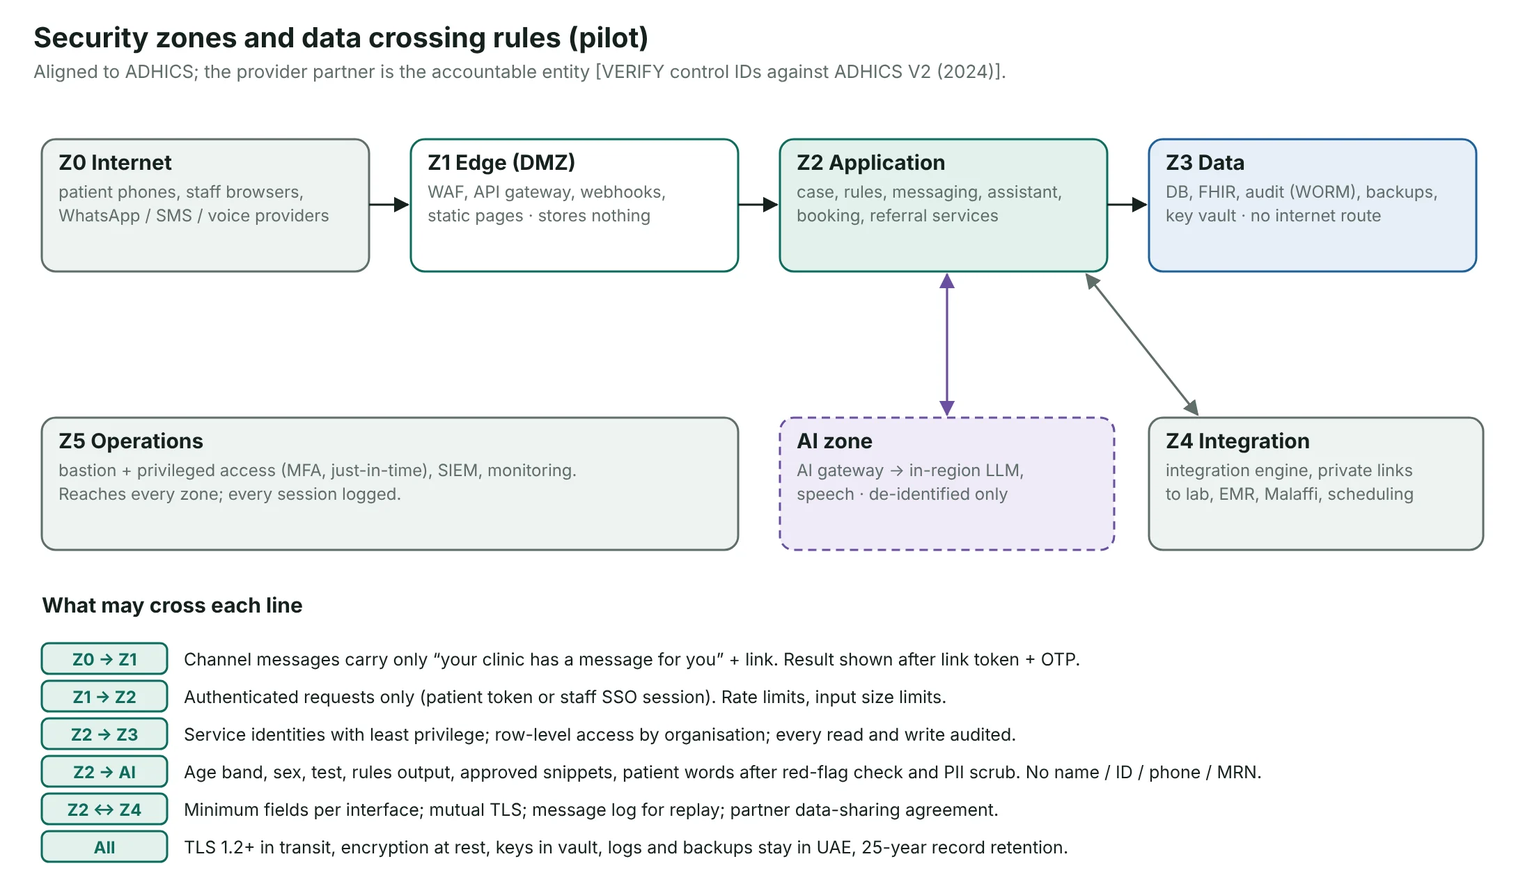
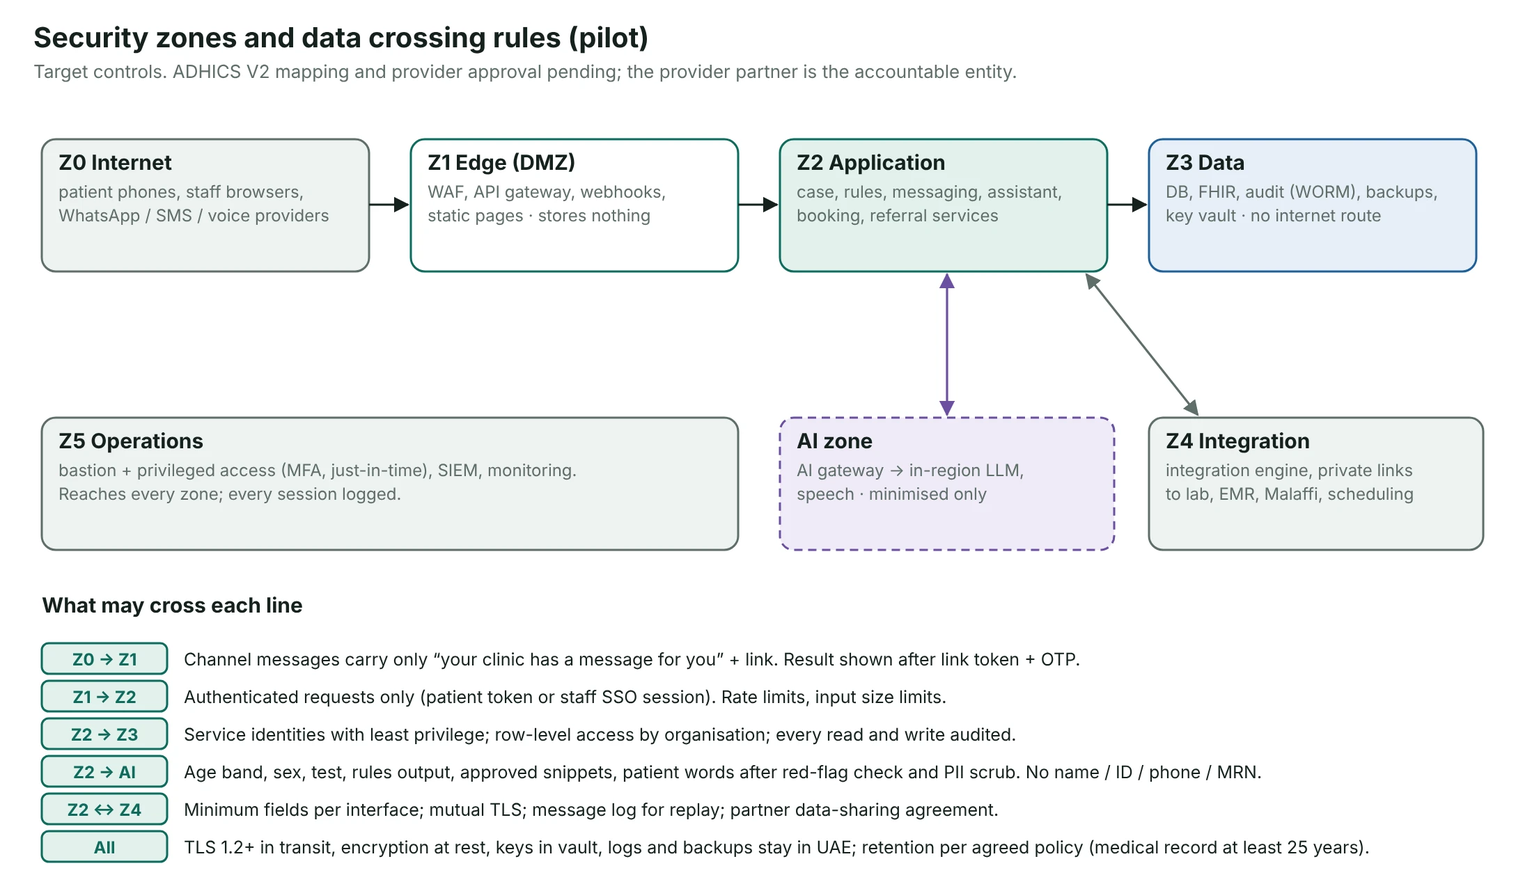
Architecture audit: staged pilot (Start/v1/Scale), daily-file contract, closure before record link, urgent path in FIT pilot, UAE hosting as target design, 25-year retention, AI modes and provider requirements, FHIR examples, full-size links, scroll hint, lightbox focus trap; legal non-affiliation l
Claude-Session: https://claude.ai/code/session_01GspiD7aAGs5PZSb9oyc1TY

Changed region(s): [[0.0309, 0.0625, 0.6491, 0.0938], [0.5564, 0.9375, 0.8964, 0.9688], [0.5564, 0.5312, 0.6491, 0.5625]]

diff --git a/architecture.html b/architecture.html
@@ -152,6 +152,9 @@ button.node:focus-visible { outline: 2px solid var(--teal); outline-offset: 2px;
 .cmp td.q { background: transparent; color: var(--ink); font-weight: 600; padding-left: 0; width: 26%; }
 .cmp td.us { background: var(--teal-soft); color: var(--ink); }
 .tablebox { overflow-x: auto; margin-inline: -6px; }
+.where.two { grid-template-columns: repeat(2, minmax(0, 1fr)); } @media (max-width: 860px) { .where.two { grid-template-columns: 1fr; } }
+.scrollhint { display: none; font-size: 13px; color: var(--ink-3); margin: 18px 0 -14px; } @media (max-width: 760px) { .scrollhint { display: block; } }
+.fullsize { font-size: 14px; color: var(--ink-2); justify-self: start; } .fullsize:hover { color: var(--ink); }
 .bigfig { display: flex; gap: 18px; align-items: baseline; border-top: 1px solid var(--line); padding-top: 18px; }
 .bigfig b { font: 700 40px/1 var(--display); color: var(--amber); white-space: nowrap; }
 
@@ -361,13 +364,14 @@ footer .disc { margin-top: 18px; font-size: 13px; color: var(--ink-3); }
     <p class="eyebrow"><b>01</b>Demo and pilot</p>
     <h2>What runs today, <em>and what changes in a pilot.</em></h2>
     <div class="where" style="margin-top:28px">
-      <div><span class="tag built">The demo today</span><h3>One browser, invented data</h3><p>Everything runs in one browser. The "lab" is a file of 220 invented results. The patient tab and the clinic tab share the browser's storage, so a tap on her phone shows up at once for Noura. WhatsApp, SMS, booking and insurance are drawn. The only server is our Cloudflare Worker for the AI chat: Gemini through the Worker, and prepared answers whenever AI is off.</p></div>
-      <div><span class="tag prop">The pilot</span><h3>Connected to the clinic's systems</h3><p>Results arrive from the lab and patient details come from the clinic record. Updates go back to it once the record is connected. Real WhatsApp, SMS and calls through licensed providers. Storage, AI and speech hosted in the UAE.</p></div>
+      <div><span class="tag built">The demo today</span><h3>One browser, invented data</h3><p>Everything runs in one browser. The "lab" is a file of 222 invented cases (6 demo patients). The patient tab and the clinic tab share the browser's storage, so a tap on her phone shows up at once for Noura. WhatsApp and SMS delivery, appointment booking and insurance checks are simulated. The public demo needs no server: prepared answers reply. Live AI (Gemini through our Cloudflare Worker) is optional and off in the public demo.</p></div>
+      <div><span class="tag prop">The pilot</span><h3>Connected to the clinic's systems</h3><p>Results arrive from the lab and patient details come from the clinic record. Updates go back to it once the record is connected. Real WhatsApp, SMS and calls through licensed providers. UAE-hosted application and health-data stores are the target design; message channels, metadata, logs and support access are checked before real patients.</p></div>
       <div><span class="tag built">The same in both</span><h3>The same safety principles</h3><p>The rules table, the red-flag list, the prepared answer library (pending clinical review) and the safety tests carry into the pilot. A real deployment adds secure hosting, sign-in, audit trails, integration monitoring and clinical validation by the partner.</p></div>
     </div>
     <figure class="datafig">
       <p>The prototype as built: a static site, the rules table, the prepared texts and one small server for AI.</p>
-      <button class="shot" type="button" data-full="img/arch-prototype.webp"><img src="img/arch-prototype.webp" alt="Prototype architecture, 18 Nov: static site with patient and staff screens, rules table, red flags, duty roster, content library, browser storage, and a Cloudflare Worker for AI that is off until the key is entered" width="2560" height="1484"></button>
+      <button class="shot" type="button" data-full="img/arch-prototype.webp"><img src="img/arch-prototype.webp" alt="Prototype architecture, v40, 20 Nov: static site with patient and staff screens, rules table, red flags, duty roster, content library, browser storage, and a Cloudflare Worker for AI that is off until the key is entered" width="2560" height="1484"></button>
+      <a class="fullsize" href="img/arch-prototype.webp" target="_blank" rel="noopener">Open full size ↗</a>
     </figure>
   </div>
 </section>
@@ -376,6 +380,7 @@ footer .disc { margin-top: 18px; font-size: 13px; color: var(--ink-3); }
   <div class="wrap">
     <p class="eyebrow"><b>02</b>How it connects</p>
     <h2>Seven steps to connect <em>one clinic group.</em></h2>
+    <p class="scrollhint" aria-hidden="true">Scroll sideways →</p>
     <div class="tablebox" style="margin-top:24px">
       <table class="cmp">
         <thead><tr><th>Step</th><th>What happens</th><th>Who does it</th><th class="us">Standard</th></tr></thead>
@@ -383,17 +388,22 @@ footer .disc { margin-top: 18px; font-size: 13px; color: var(--ink-3); }
           <tr><td class="q">1. Agreement</td><td>The provider network signs a data-sharing agreement and names a clinical lead</td><td>Partner + Kafila</td><td class="us">Contract, ADHICS</td></tr>
           <tr><td class="q">2. Results in</td><td>The clinic's IT team adds one rule to its integration engine: send a copy of every positive screening result to Kafila. To start, a protected file once a day is enough</td><td>Partner IT</td><td class="us">HL7 v2, or secure file (SFTP)</td></tr>
           <tr><td class="q">3. Patient details in</td><td>Kafila reads only what it needs: mobile number, preferred language, family doctor and clinic, insurance plan</td><td>Partner IT</td><td class="us">FHIR / HL7</td></tr>
-          <tr><td class="q">4. Updates back</td><td>The referral, "appointment booked" and the clinician's closure note go back into the record. Clinicians see Kafila as a worklist next to their own system</td><td>Kafila</td><td class="us">FHIR</td></tr>
+          <tr><td class="q">4. Updates back</td><td>Back into the record: the referral, its status, the appointment and the clinician's closure note. Clinicians see Kafila as a worklist next to their own system</td><td>Kafila</td><td class="us">FHIR, for example ServiceRequest, Task, Appointment (from I3), DiagnosticReport</td></tr>
           <tr><td class="q">5. Messages to the patient</td><td>WhatsApp from the clinic's verified business number, SMS through a UAE-licensed operator, calls through a local telecom provider. No medical words, only a link</td><td>Kafila + providers</td><td class="us">WhatsApp Business Platform, TDRA rules</td></tr>
           <tr><td class="q">6. Done elsewhere</td><td>Through the partner's official connection, Kafila can see in Malaffi that the colonoscopy was done at another clinic, and the case can close with that evidence</td><td>Partner + DoH</td><td class="us">Malaffi interface <span class="vf">· with partner</span></td></tr>
-          <tr><td class="q">7. Storage</td><td>Everything is stored and processed on servers in the UAE</td><td>Kafila</td><td class="us">Federal Law No. 2 of 2019</td></tr>
+          <tr><td class="q">7. Storage</td><td>Health data is stored and processed in the UAE (target design). Medical records are kept at least 25 years; other data per the agreed policy. Message channels, logs and support access are checked with the partner</td><td>Kafila + partner</td><td class="us">Federal Law No. 2 of 2019 (Art. 20: 25 years)</td></tr>
         </tbody>
       </table>
     </div>
-    <p class="note" style="margin-top:14px">What the partner's IT team has to do: one outbound rule in the integration engine (or a daily file), one read / write connection to the record, and staff sign-in through the clinic's own login. No new hardware. The pilot can start with steps 1–3, 5 and 7; updates back to the record (step 4) follow once it is connected. A daily file is enough for positive stool tests only. Urgent results, like a blood pressure of 185/115, need a same-day feed and a clinician on call; without that they stay out of the live pilot.</p>
+    <p class="note" style="margin-top:14px">What the partner's IT team has to do: one outbound rule in the integration engine (or a daily file), one read / write connection to the record, and staff sign-in through the clinic's own login. No new hardware. The pilot can start with steps 1–3, 5 and 7; updates back to the record (step 4) follow once it is connected. A daily file is enough for positive stool tests only. Urgent results, like a blood pressure of 185/115, need a same-day feed and a clinician on call; without that they stay out of the first pilot. If a patient in the stool-test pilot writes a danger sign, Kafila shows "Call 998 now" with no AI and alerts the coordinator or the doctor on call during clinic hours; the out-of-hours route is agreed with the partner before go-live.</p>
+    <div class="where two" style="margin-top:24px">
+      <div><span class="tag prop">Start</span><h3>The daily file (v0)</h3><p>Sent by the lab or screening programme at an agreed time each day. Each row: result ID, patient ID, test, result, result date and import time, contact details, language, family doctor. A correction is a new row with the same result ID; duplicates are merged. Every import returns an accepted / rejected report to a named contact at the partner. The deadline clock starts at the result date, not the import time.</p></div>
+      <div><span class="tag prop">Start</span><h3>Closing a case before the record is connected</h3><p>The assigned clinician checks the colonoscopy report in the partner's record and enters its reference in Kafila. A case without a confirmed report stays on the list.</p></div>
+    </div>
     <figure class="datafig">
       <p>Where Kafila learns which clinic each patient belongs to, which language to write in, which appointments fit them and what their plan pays for.</p>
       <button class="shot" type="button" data-full="img/data-sources.webp"><img src="img/data-sources.webp" alt="Diagram: laboratory, clinic health record, appointment system and insurer feed Kafila; Fatima gets a WhatsApp from her clinic, in her language"></button>
+      <a class="fullsize" href="img/data-sources.webp" target="_blank" rel="noopener">Open full size ↗</a>
     </figure>
   </div>
 </section>
@@ -402,16 +412,18 @@ footer .disc { margin-top: 18px; font-size: 13px; color: var(--ink-3); }
   <div class="wrap">
     <p class="eyebrow"><b>03</b>Pilot architecture</p>
     <h2>The Abu Dhabi pilot, <em>component by component.</em></h2>
-    <p class="lede" style="margin-top:14px">Everything with health data runs in a UAE cloud region, with a second UAE region for backup. Examples of technology are assumptions to agree with the partner.</p>
+    <p class="lede" style="margin-top:14px">Target design after v1 and Scale. The first pilot uses only the parts marked Start in the table below. Health data is designed to stay in a UAE cloud region, with a second UAE region for backup. Examples of technology are assumptions to agree with the partner.</p>
     <figure class="datafig">
       <button class="shot" type="button" data-full="img/arch-pilot.webp"><img src="img/arch-pilot.webp" alt="Pilot architecture: users, channels and identity, UAE cloud region with edge, application services, integration, AI zone, data stores and operations; partner systems lab, EMR, scheduling and duty roster, Malaffi, insurer, Sahatna" width="2880" height="1800"></button>
+      <a class="fullsize" href="img/arch-pilot.webp" target="_blank" rel="noopener">Open full size ↗</a>
     </figure>
+    <p class="scrollhint" aria-hidden="true">Scroll sideways →</p>
     <div class="tablebox" style="margin-top:28px">
       <table class="cmp int">
         <thead><tr><th>#</th><th>System</th><th>What flows</th><th>Standard</th><th class="us">When</th></tr></thead>
         <tbody>
           <tr><td class="q n">I1</td><td>Lab / screening programme</td><td>Positive results in</td><td>Daily secure file, then HL7 v2 or FHIR</td><td class="us">Start → v1</td></tr>
-          <tr><td class="q n">I2</td><td>Clinic health record (EMR)</td><td>In: contact, language, doctor. Out: referral, closure note</td><td>FHIR R4, or HL7 v2</td><td class="us">v1</td></tr>
+          <tr><td class="q n">I2</td><td>Clinic health record (EMR)</td><td>In: contact, language, doctor. Out: referral and its status, closure note</td><td>FHIR R4, or HL7 v2</td><td class="us">Start: contact details in the daily file → v1</td></tr>
           <tr><td class="q n">I3</td><td>Appointment system</td><td>In: free slots. Out: booking</td><td>Partner API or FHIR; coordinator books at the start</td><td class="us">Start → v1</td></tr>
           <tr><td class="q n">I4</td><td>Malaffi</td><td>Evidence that the test was done elsewhere</td><td>Malaffi specs <span class="vf">· with partner</span></td><td class="us">Scale</td></tr>
           <tr><td class="q n">I5</td><td>WhatsApp Business</td><td>Notice + link out; replies and read receipts in</td><td>Official business provider</td><td class="us">Start</td></tr>
@@ -419,7 +431,7 @@ footer .disc { margin-top: 18px; font-size: 13px; color: var(--ink-3); }
           <tr><td class="q n">I7</td><td>Voice call</td><td>Automated call in Arabic or English, "press 1 for a nurse"</td><td>UAE telecom provider</td><td class="us">Start</td></tr>
           <tr><td class="q n">I8</td><td>Insurer</td><td>Is the colonoscopy covered for this plan</td><td>Insurer or eClaim channel <span class="vf">· with partner</span></td><td class="us">v1</td></tr>
           <tr><td class="q n">I9</td><td>Clinic login</td><td>Staff sign-in</td><td>OIDC / SAML</td><td class="us">Start</td></tr>
-          <tr><td class="q n">I10</td><td>Sahatna</td><td>Patient side as a module inside the app</td><td>Sahatna partner interface <span class="vf">· with partner</span></td><td class="us">Scale</td></tr>
+          <tr><td class="q n">I10</td><td>Sahatna</td><td>Patient side alongside the app (to agree with the programme)</td><td>Sahatna partner interface <span class="vf">· with partner</span></td><td class="us">Scale</td></tr>
         </tbody>
       </table>
     </div>
@@ -435,12 +447,13 @@ footer .disc { margin-top: 18px; font-size: 13px; color: var(--ink-3); }
       <div><h3>Works without AI</h3><p>Every AI call has a prepared fallback answer. The pilot can run with AI switched off.</p></div>
       <div><h3>A responsible person at every step</h3><p>Every positive result is one case with a named responsible person and a deadline on each step, until a clinician closes it with evidence. If an expected event does not arrive (no reply, no booking, no report), the case goes to the top of a list.</p></div>
       <div><h3>No health words in messages</h3><p>WhatsApp and SMS messages, urgent ones included, say only that the patient's clinic needs to reach them, plus a link. The result appears only after an identity check. Consent, opt-outs and every contact attempt are logged.</p></div>
-      <div><h3>Minimum data to AI</h3><p>Kafila does not send the patient's name, Emirates ID, phone, address or record number to the model. A patient could still type personal details into a free question, so the pilot adds a filter that removes them first. Red-flag questions never reach the AI.</p></div>
-      <div><h3>Designed to stay in the UAE</h3><p>Hosting, database, backups, logs, AI and speech, as the health-data law requires. The whole chain, including message providers and support access, is checked before real patients.</p></div>
+      <div><h3>Minimum data to AI</h3><p>Kafila does not send the patient's name, Emirates ID, phone, address or record number to the model. A patient could still type personal details into a free question, so the pilot adds a filter that removes them first; if a question cannot be made safe, the prepared answer is shown instead. Red-flag questions never reach the AI.</p></div>
+      <div><h3>Designed to stay in the UAE</h3><p>UAE-hosted application and health-data stores are the target design, as the health-data law requires. Message channels, metadata, logs and support access are checked before real patients.</p></div>
     </div>
     <figure class="datafig">
-      <p>Security zones: what data may cross each line. The database has no route to the internet; the AI zone sees de-identified context only.</p>
+      <p>Target controls. Security zones: what data may cross each line. The database has no route to the internet; the AI zone sees only minimised case context. ADHICS V2 mapping and provider approval are pending; the provider partner is the accountable entity.</p>
       <button class="shot" type="button" data-full="img/arch-zones.webp"><img src="img/arch-zones.webp" alt="Security zones Z0 internet to Z5 operations, with the AI zone receiving only minimised case context" width="2200" height="1280"></button>
+      <a class="fullsize" href="img/arch-zones.webp" target="_blank" rel="noopener">Open full size ↗</a>
     </figure>
   </div>
 </section>
@@ -450,13 +463,15 @@ footer .disc { margin-top: 18px; font-size: 13px; color: var(--ink-3); }
     <p class="eyebrow"><b>05</b>AI</p>
     <h2>Which AI, <em>and where it runs.</em></h2>
     <div class="where" style="margin-top:28px">
-      <div><span class="tag built">Demo</span><h3>Gemini through our Worker</h3><p>The patient AI chat can call Gemini through our Cloudflare Worker. The code is ready, but AI is off until the key is entered, so today prepared answers from the library reply. This is acceptable only because all data is invented.</p></div>
-      <div><span class="tag prop">Pilot</span><h3>A model hosted in the UAE</h3><p>An in-region model with no training on our data and no retention: a large cloud provider's model in a UAE region, or an Arabic-first model such as Jais or Falcon. The model is chosen with the partner and tested on our 50-question safety set.</p></div>
+      <div><span class="tag built">Demo</span><h3>Gemini through our Worker</h3><p>The patient AI chat can call Gemini through our Cloudflare Worker. The code is ready, but AI is off until the key is entered, so today prepared answers from the library reply (prepared texts · clinical review pending). This is acceptable only because all data is invented.</p></div>
+      <div><span class="tag prop">Pilot</span><h3>A model hosted in the UAE</h3><p>An in-region model. No training on our data and no retention are requirements for the chosen provider. Options: a large cloud provider's model in a UAE region, or an Arabic-first model such as Jais or Falcon. The model is chosen with the partner and tested on our 50-question safety set.</p></div>
       <div><span class="tag prop">Pilot</span><h3>Drafts for staff</h3><p>Case summary and referral letter drafts, built from case fields. Every draft is checked by code, marked "AI draft · check before use", and a person accepts, edits or ignores it. In the demo these drafts are templates.</p></div>
     </div>
+    <p class="lede" style="margin-top:28px">Three modes for every patient question. 1) A danger sign gets a fixed answer, with no AI. 2) A known question gets a prepared answer from the library. 3) Any other question goes to the AI with minimised context only (test, zone, next step, deadline, prepared texts; no name, ID, phone, address or record number). Its answer is checked by code, and the prepared answer is the fallback.</p>
     <figure class="datafig">
       <p>How a staff draft is made and checked before anyone sees it.</p>
-      <button class="shot" type="button" data-full="img/arch-staffai.webp"><img src="img/arch-staffai.webp" alt="Staff AI flow: de-identified case fields, prompt template, model, code checks, fallback template, accept edit or ignore logged" width="2600" height="1120"></button>
+      <button class="shot" type="button" data-full="img/arch-staffai.webp"><img src="img/arch-staffai.webp" alt="Staff AI flow: minimised case fields, prompt template, model, code checks, fallback template, accept edit or ignore logged" width="2600" height="1120"></button>
+      <a class="fullsize" href="img/arch-staffai.webp" target="_blank" rel="noopener">Open full size ↗</a>
     </figure>
   </div>
 </section>
@@ -465,7 +480,7 @@ footer .disc { margin-top: 18px; font-size: 13px; color: var(--ink-3); }
 <footer>
   <div class="wrap">
     <p class="disc">Arranged with the pilot partner and DoH, not needed to start: Malaffi access, insurer eligibility checks, the in-UAE AI model, ADHICS control mapping, the Sahatna interface.</p>
-    <p class="disc">Source: Kafila architecture document v0.7 (18 Nov 2026). Technology examples are assumptions to agree with the pilot partner. All people, results, clinics and insurance plans in the demo are synthetic. Not a medical device. Not affiliated with or endorsed by DoH Abu Dhabi or ADPHC. Logo: concept AI-generated, redrawn as vector.</p>
+    <p class="disc">Source: Kafila architecture document v0.7 (18 Nov 2026). Technology examples are assumptions to agree with the pilot partner. All people, results, clinics and insurance plans in the demo are synthetic. Prototype for demonstration only. Not for clinical use. Not registered as a medical device; classification will be checked before any pilot. WhatsApp, Sahatna, Malaffi, UAE PASS, Thiqa, Daman and SEHA are names of their owners. Kafila is an independent concept and is not affiliated with or endorsed by them, DoH Abu Dhabi or ADPHC. Logo: concept AI-generated, redrawn as vector.</p>
   </div>
 </footer>
 <div class="lb" id="lb" hidden role="dialog" aria-modal="true" aria-label="Enlarged diagram">
@@ -476,7 +491,7 @@ footer .disc { margin-top: 18px; font-size: 13px; color: var(--ink-3); }
 (function(){const lb=document.getElementById("lb"),lbImg=document.getElementById("lbImg"),lbClose=document.getElementById("lbClose");let opener=null;
 document.querySelectorAll(".shot").forEach(b=>b.addEventListener("click",()=>{opener=b;lbImg.src=b.dataset.full;lbImg.alt=b.querySelector("img").alt;lb.hidden=false;lbClose.focus();}));
 function closeLb(){lb.hidden=true;if(opener)opener.focus();}
-lbClose.addEventListener("click",closeLb);lb.addEventListener("click",e=>{if(e.target===lb)closeLb();});addEventListener("keydown",e=>{if(e.key==="Escape"&&!lb.hidden)closeLb();});})();
+lbClose.addEventListener("click",closeLb);lb.addEventListener("click",e=>{if(e.target===lb)closeLb();});addEventListener("keydown",e=>{if(lb.hidden)return;if(e.key==="Escape")closeLb();else if(e.key==="Tab"){e.preventDefault();lbClose.focus();}});})();
 </script>
 <a id="totop" class="totop" href="#top" aria-label="Back to top" title="Back to top">↑</a>
 <script>(function(){var b=document.getElementById("totop");if(!b)return;function f(){b.classList.toggle("show",window.scrollY>600)}addEventListener("scroll",f,{passive:true});f();b.addEventListener("click",function(e){e.preventDefault();scrollTo({top:0,behavior:matchMedia("(prefers-reduced-motion: reduce)").matches?"auto":"smooth"})})})();</script>

diff --git a/index.html b/index.html
@@ -713,7 +713,7 @@ footer .disc { margin-top: 18px; font-size: 13px; color: var(--ink-3); }
     <div>
       <h3>About this prototype</h3>
       <p>Built during the Future Health Digital Innovation Challenge by a solo founder with medical education, working with a team of AI roles: developer, tester, business analyst, architect, designer, medical reviewer, writer.</p>
-      <p class="disc" id="fn-demo">Concept and demonstration prototype. All people, results, clinics and insurance plans are synthetic. Clinical logic follows published guidelines and is pending review by a licensed clinician. Messages, booking and integrations are simulated. Not for clinical use and not registered as a medical device. Not affiliated with or endorsed by DoH Abu Dhabi or ADPHC. Logo: concept AI-generated, redrawn as vector.</p>
+      <p class="disc" id="fn-demo">Concept and demonstration prototype. All people, results, clinics and insurance plans are synthetic. Clinical logic follows published guidelines and is pending review by a licensed clinician. Messages, booking and integrations are simulated. Not for clinical use. Not registered as a medical device; classification will be checked before any pilot. Messenger screens are simulated and not affiliated with WhatsApp or Meta. WhatsApp, Sahatna, Malaffi, UAE PASS, Thiqa, Daman and SEHA are names of their owners. Kafila is an independent concept and is not affiliated with or endorsed by them, DoH Abu Dhabi or ADPHC. Logo: concept AI-generated, redrawn as vector.</p>
     </div>
   </div>
 </footer>
@@ -812,7 +812,7 @@ footer .disc { margin-top: 18px; font-size: 13px; color: var(--ink-3); }
   function closeLb() { lb.hidden = true; if (opener) opener.focus(); }
   lbClose.addEventListener("click", closeLb);
   lb.addEventListener("click", (e) => { if (e.target === lb) closeLb(); });
-  addEventListener("keydown", (e) => { if (e.key === "Escape" && !lb.hidden) closeLb(); });
+  addEventListener("keydown", (e) => { if (lb.hidden) return; if (e.key === "Escape") closeLb(); else if (e.key === "Tab") { e.preventDefault(); lbClose.focus(); } });
 })();
 </script>
 <a id="totop" class="totop" href="#top" aria-label="Back to top" title="Back to top">↑</a>
